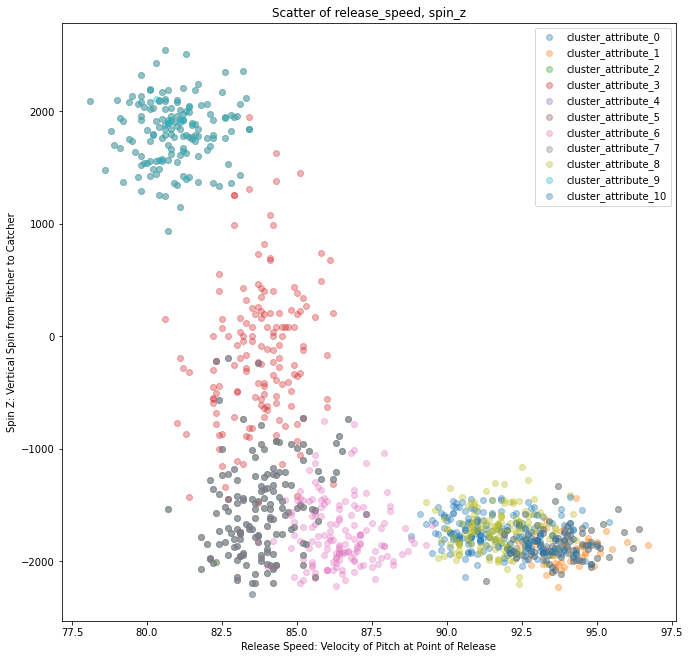
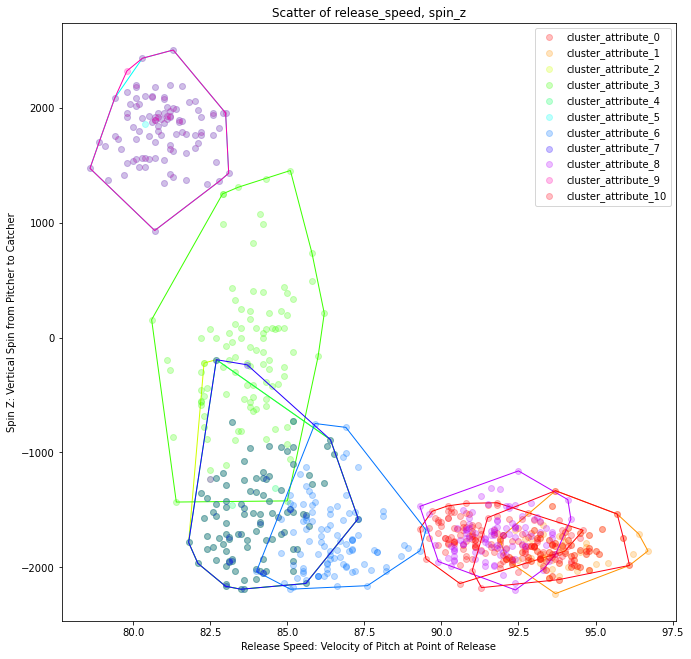
clarified_plots

diff --git a/libs/plot_results.py b/libs/plot_results.py
@@ -24,6 +24,8 @@ import pickle as pkl
 
 from sklearn.metrics import mean_squared_error, mean_absolute_error
 
+from scipy.spatial import ConvexHull
+
 def cluster_plots(cluster_plots_obj):
     hist_cols = ['pitch_type','p_throws','effective_speed','release_speed']
     scatter_3d = [('release_speed','spin_x','spin_z'),
@@ -51,20 +53,25 @@ class ClusterPlots():
         self.define_cols()
         self.clusters_close = {} # n closest points for each cluster
         self.alpha = alpha # opacity of scatterplots
+        #self.color_list = plt.rcParams['axes.prop_cycle'].by_key()['color']
+        self.color_list = []
         n = n # The number of pitches closest to cluster center used in plots
         for atr in self.cluster_cols:
             self.clusters_close[atr] = self.data.nlargest(n,atr)
+        self.define_color_list()
         
     # saves a 2d-scatterplot, separating clusters by color
     def scatter_2d(self,x,y):
         fig = plt.figure(figsize=(11, 11))
         ax = fig.add_subplot(111)    
         for i in range(0,len(self.cluster_cols)):
+            c = self.color_list[i]
             df_temp = self.clusters_close[self.cluster_cols[i]]
-            ax.scatter(df_temp[x],df_temp[y],label=self.cluster_cols[i],alpha=self.alpha)
+            ax.scatter(df_temp[x],df_temp[y],label=self.cluster_cols[i],alpha=self.alpha,color=c)
             ax.set_xlabel(self.rename_var(x))
             ax.set_ylabel(self.rename_var(y))
-            ax.set_title("Scatter of " + x + ", " + y)    
+            ax.set_title("Scatter of " + x + ", " + y)
+            self.encircle(df_temp[x],df_temp[y],fc="none",ec=c)
         plt.legend()
         image_name = 'images/cluster/scatter_2d/' + x + '_' + y + '_scatter_2d' + '.png'
         plt.savefig(image_name, bbox_inches='tight')
@@ -76,8 +83,9 @@ class ClusterPlots():
         #plt.title = ("Scatter of " + str(x) + ", " + str(y) + ", " + str(z))
         ax = fig.add_subplot(111, projection='3d')
         for i in range(0,len(self.cluster_cols)):
+            c = self.color_list[i]
             df_temp = self.clusters_close[self.cluster_cols[i]]
-            ax.scatter(df_temp[x],df_temp[y],df_temp[z],label=self.cluster_cols[i],alpha=self.alpha)
+            ax.scatter(df_temp[x],df_temp[y],df_temp[z],label=self.cluster_cols[i],alpha=self.alpha,color=c)
             ax.set_xlabel(self.rename_var(x))
             ax.set_ylabel(self.rename_var(y))
             ax.set_zlabel(self.rename_var(z))
@@ -103,6 +111,20 @@ class ClusterPlots():
         plt.savefig(img_name, bbox_inches='tight')
         plt.show()
         
+    # encircles plot points for a cluster in a scatter plot
+    def encircle(self,x,y, ax=None, **kw):
+        if not ax: ax=plt.gca()
+        p = np.c_[x,y]
+        hull = ConvexHull(p)
+        poly = plt.Polygon(p[hull.vertices,:], **kw)
+        ax.add_patch(poly)
+        
+    # creates list of colors of length equal to the number of clusters for
+    # consistent color coding in plots
+    def define_color_list(self):
+        hsv = plt.get_cmap('hsv')
+        self.color_list = hsv(np.linspace(0, 1.0, len(self.clusters_close)))
+    
     # Renames variables so it is easier to tell what it represents
     def rename_var(self, x):
         if x == "spin_x":

diff --git a/create_visuals.py b/create_visuals.py
@@ -15,5 +15,5 @@ eval_table = pr.ResultsTable()
 eval_table.all_results()
 eval_table.save_table()
 
-clust_plots = pr.ClusterPlots(n=150,alpha=0.35)
+clust_plots = pr.ClusterPlots(n=100,alpha=0.25)
 pr.cluster_plots(clust_plots)
